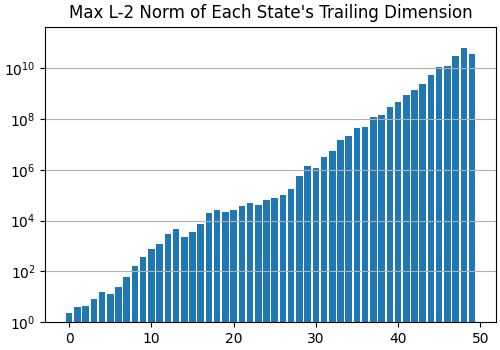
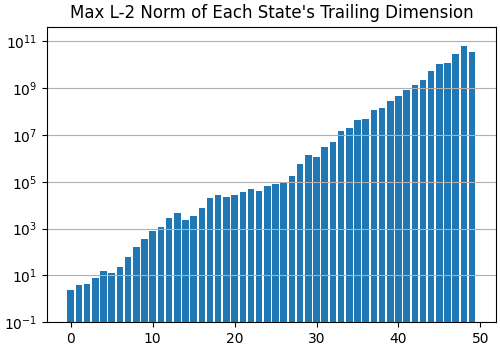
Change range of y-axis of plots, so we can see unit magnitudes.

diff --git a/README.md b/README.md
@@ -36,7 +36,7 @@ The random vectors in each transition matrix of `A` tend to have L-2 norm greate
 fig, axis = plt.subplots(layout='constrained', figsize=(5, 3.5))
 axis.set_title("Max L-2 Norm of Each State's Trailing Dimension")
 axis.bar(range(n), S_without_resets.norm(dim=-1).max(dim=-1).values)
-axis.set(yscale='log', ylim=(1, S_without_resets.max() * 10))
+axis.set(yscale='log', ylim=(1e-1, S_without_resets.max() * 10))
 axis.grid(axis='y')
 ```
 
@@ -71,13 +71,13 @@ fig.suptitle("Max L-2 Norm of Each State's Trailing Dimension")
 axis = axes[0]
 axis.set_title("Without Selective Resetting")
 axis.bar(range(n), S_without_resets.norm(dim=-1).max(dim=-1).values)
-axis.set(yscale='log', ylim=(1, S_without_resets.max() * 10))
+axis.set(yscale='log', ylim=(1e-1, S_without_resets.max() * 10))
 axis.grid(axis='y')
 
 axis = axes[1]
 axis.set_title("With Selective Resetting")
 axis.bar(range(n), S_with_resets.norm(dim=-1).max(dim=-1).values)
-axis.set(yscale='log', ylim=(1, S_without_resets.max() * 10))
+axis.set(yscale='log', ylim=(1e-1, S_without_resets.max() * 10))
 axis.grid(axis='y')
 ```
 
